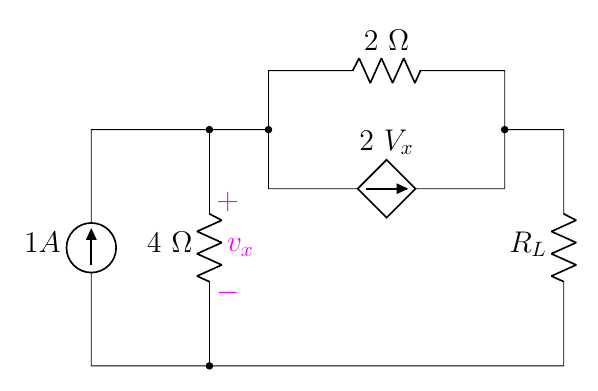
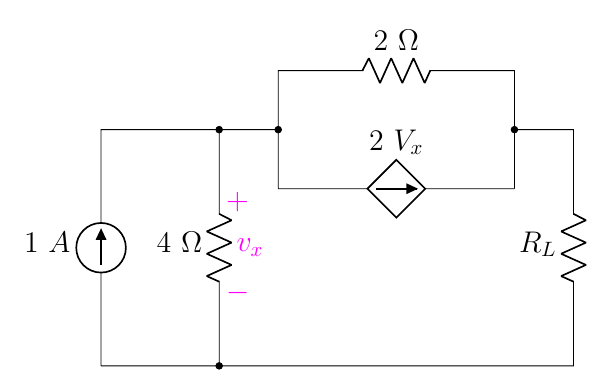
1.0

diff --git a/new assign/1.0 Thevenin/1.0.tex b/new assign/1.0 Thevenin/1.0.tex
@@ -4,7 +4,7 @@
     \input{../../preamble2.tex}
 
     \draw(0,0) 
-        to[I,l=$1A$] ++(0,4)
+        to[I,l=$1\ A$] ++(0,4)
         to[short] ++(2,0)
         to[R,l_=$4\ \Omega$,*-*] ++(0,-4)
         to[short] ++(-2,0) ++(2,4)
